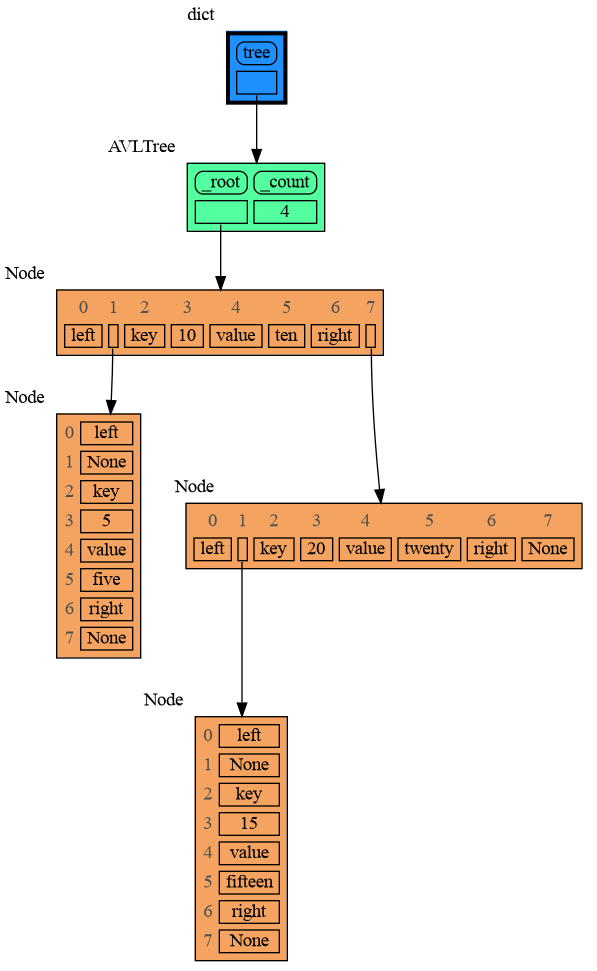
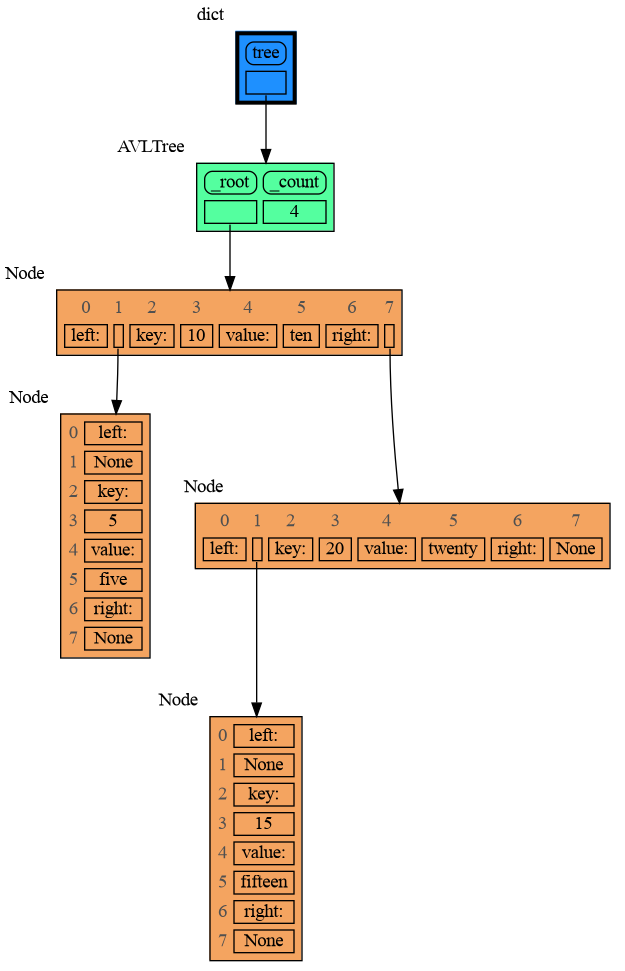
update

diff --git a/images/avltree.py b/images/avltree.py
@@ -8,11 +8,9 @@ tree.insert(5, "five")
 tree.insert(20, "twenty")
 tree.insert(15, "fifteen")
 
-mg.render(locals(), 'avltree_fail.png')
+# mg.render(locals(), 'avltree_fail.png') # id keeps changing
 
 mg.config.type_to_color[bintrees.avltree.Node] = "sandybrown"
-mg.render(locals(), 'avltree_color.png')
-
 mg.config.type_to_node[bintrees.avltree.Node] = lambda data: mg.node_linear.Node_Linear(data, dir(data))
 mg.config.type_to_slicer[bintrees.avltree.Node] = mg.slicer.Slicer()
 mg.render(locals(), 'avltree_dir.png')
@@ -21,10 +19,10 @@ mg.config.type_to_node[bintrees.avltree.Node] = lambda data: mg.node_base.Node_B
 mg.render(locals(), 'avltree_base.png')
 
 mg.config.type_to_node[bintrees.avltree.Node] = lambda data: mg.node_linear.Node_Linear(data,
-                                                                                        ['left', data.left,
-                                                                                         'key', data.key,
-                                                                                         'value', data.value,
-                                                                                         'right', data.right])
+                                                                                        ['left:', data.left,
+                                                                                         'key:', data.key,
+                                                                                         'value:', data.value,
+                                                                                         'right:', data.right])
 mg.render(locals(), 'avltree_linear.png')
 
 mg.config.type_to_node[bintrees.avltree.Node] = lambda data: mg.node_key_value.Node_Key_Value(data,

diff --git a/README.md b/README.md
@@ -49,7 +49,7 @@ identical?: True
 A better way to understand what data is shared is to draw a graph of the data using the [memory_graph](https://pypi.org/project/memory-graph/) package.
 
 # Memory Graph #
-The [memory_graph](https://pypi.org/project/memory-graph/) package can graph many different data types.
+The [memory_graph](https://pypi.org/project/memory-graph/) package can graph many different data types, not limited to:
 
 ```python
 import memory_graph as mg
@@ -590,7 +590,7 @@ mg.show(locals())
 ```
 ![extension_numpy.png](https://raw.githubusercontent.com/bterwijn/memory_graph/main/images/avltree_dir.png)
 
-Next figure out what are the attributes you want to graph and choose a Node type there are four options.
+Next figure out what are the attributes you want to graph and choose a Node type, there are four options.
 
 ### 1 Node_Base ###
 Node_base is a leaf node (with no children) and shows just a single value.
@@ -627,10 +627,10 @@ tree.insert(15, "fifteen")
 
 mg.config.type_to_color[bintrees.avltree.Node] = "sandybrown"
 mg.config.type_to_node[bintrees.avltree.Node] = lambda data: mg.node_linear.Node_Linear(data,
-                                                ['left', data.left,
-                                                 'key', data.key,
-                                                 'value', data.value,
-                                                 'right', data.right] )
+                                                ['left:', data.left,
+                                                 'key:', data.key,
+                                                 'value:', data.value,
+                                                 'right:', data.right] )
 
 mg.show(locals())
 ```
